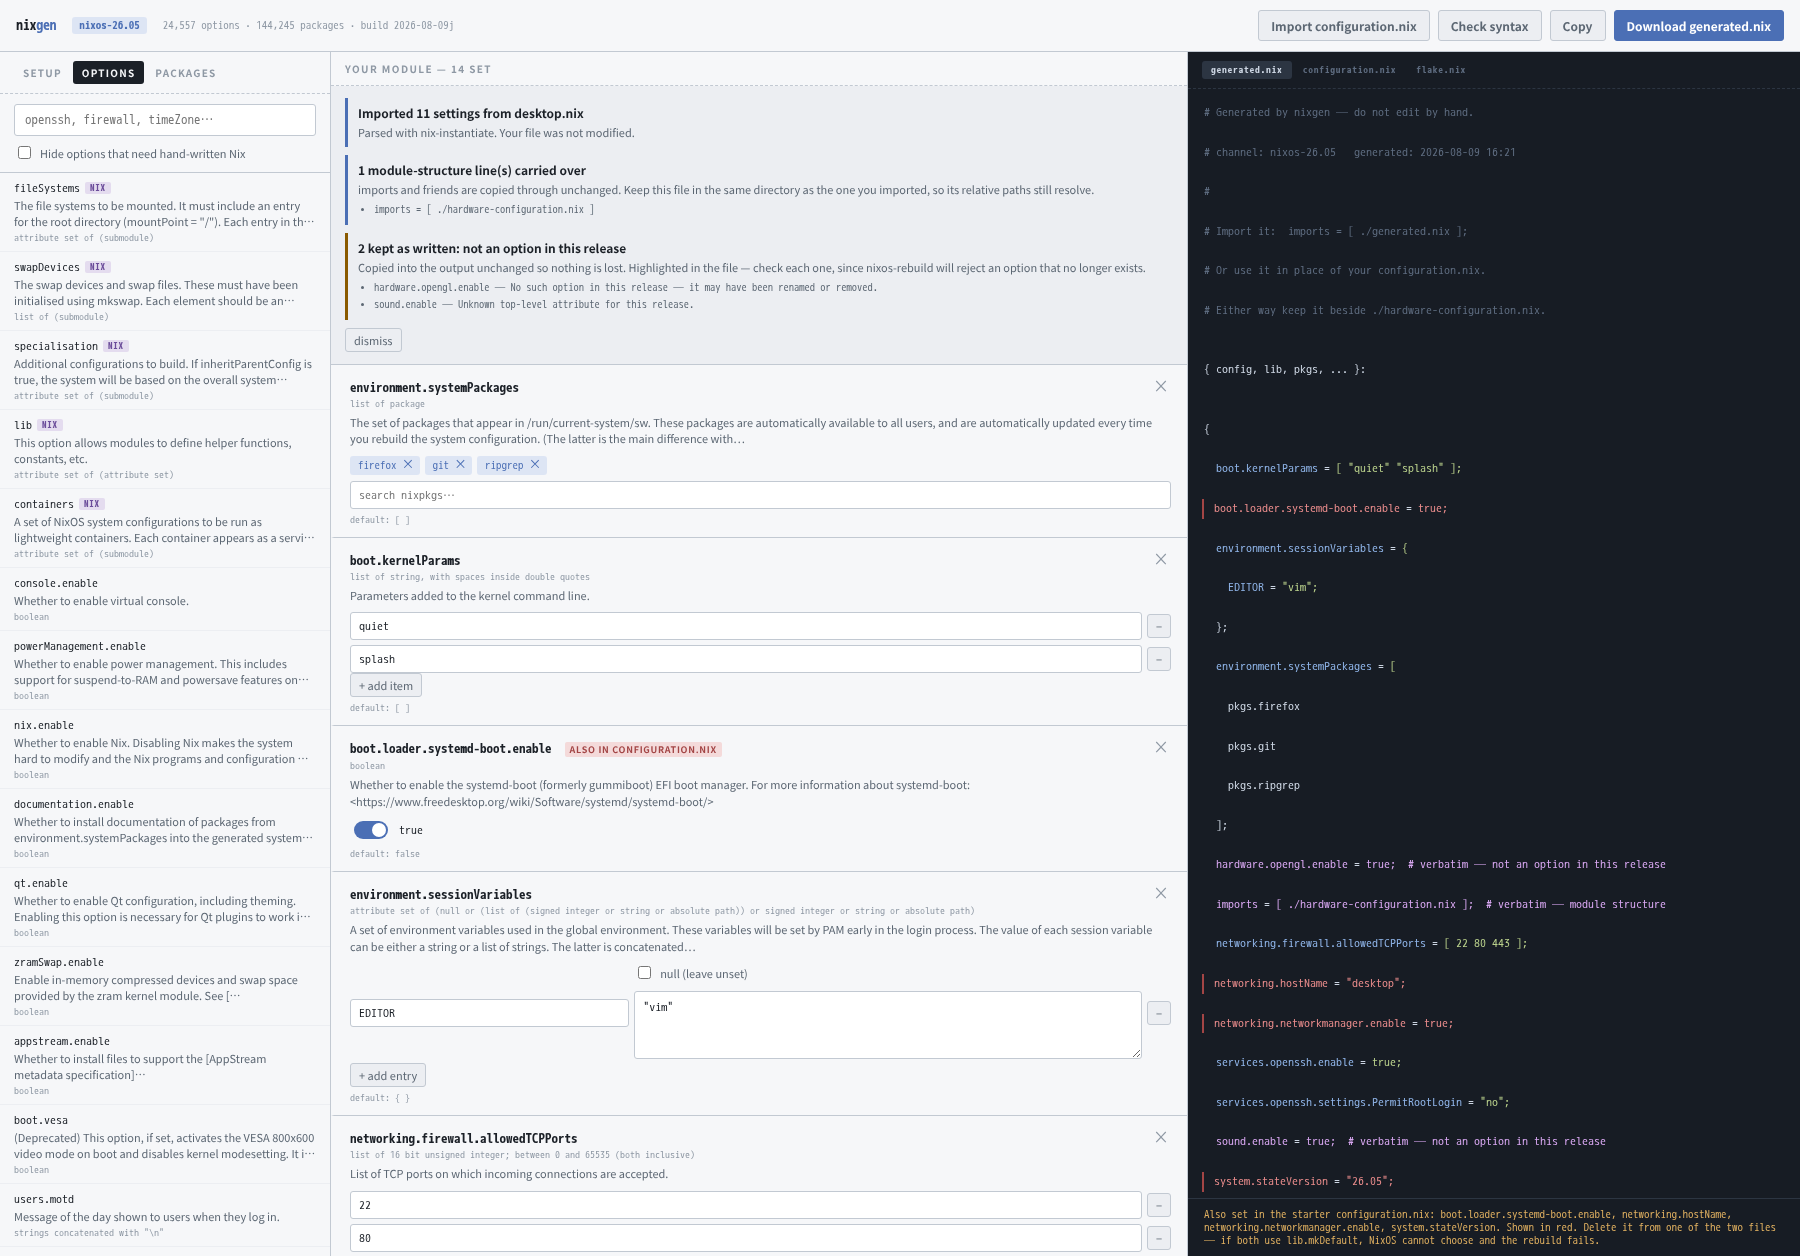
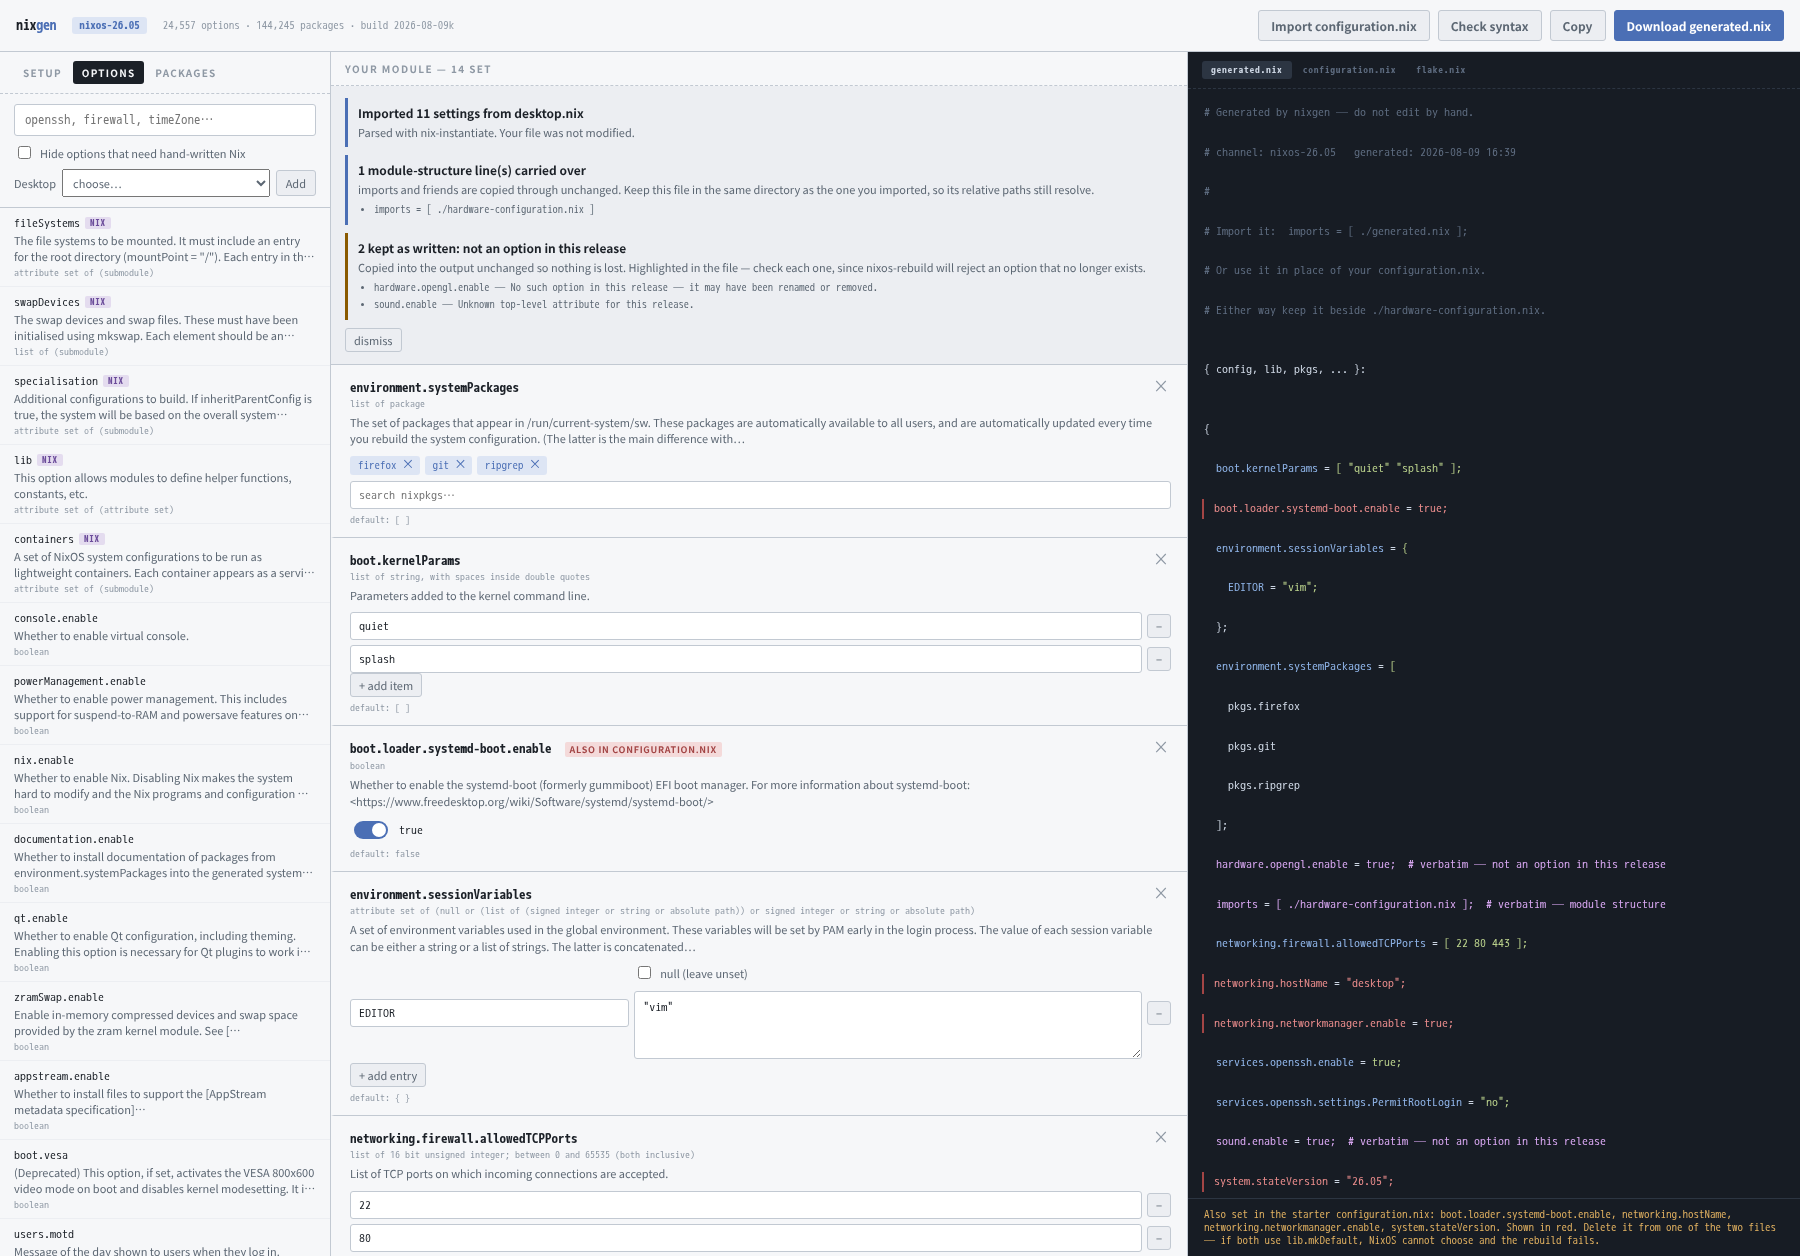
Add a desktop from a dropdown
GNOME, KDE Plasma or Xfce, on the Options tab. Three settings each, the ones
the NixOS manual lists, added as ordinary option cards so they can be read,
changed and removed like anything else.

The names are the reason it earns its place. gdm and sddm have moved out of
services.xserver and lightdm has not; gnome and plasma6 have moved out and
xfce has not; plasma5 is gone. Two namespaces, split by no rule anyone could
infer — which is the exact problem this tool exists for, and the exact way a
hard-coded list would go quietly wrong on the next release. So each part
names candidates and takes the first the catalogue actually has.

Into the module rather than the starter file, deliberately: starter.py has no
catalogue to check a path against, and a preset nobody can see or edit is the
wrong shape here.

Verified past what Check syntax can tell you — it cannot judge whether an
option name is real. All three were driven through the UI, then evaluated as
NixOS systems, then read back to confirm the options are actually true in the
resulting config and that a display manager ends up enabled in each.

Changed region(s): [[0.0, 0.1242, 0.1867, 1.0]]

diff --git a/build/static/app.js b/build/static/app.js
@@ -2,7 +2,7 @@
 
 /* Shown in the header. Bump it whenever this file changes, so "the fix did not
    work" can be told apart from "the old file is still being served". */
-const BUILD = '2026-08-09j';
+const BUILD = '2026-08-09k';
 
 const $  = (s, r = document) => r.querySelector(s);
 const $$ = (s, r = document) => [...r.querySelectorAll(s)];
@@ -156,6 +156,7 @@ function selectKind(kind) {
   if (setup) return;
 
   $('#filterline').style.display = kind === 'options' ? '' : 'none';
+  $('#presetline').style.display = kind === 'options' ? '' : 'none';
   $('#q').placeholder = kind === 'options'
     ? 'openssh, firewall, timeZone…'
     : 'firefox, ripgrep, obsidian…';
@@ -594,6 +595,69 @@ async function addOption(path) {
   state.lastTouched = path;
   renderEditor(); runSearch(); pushRender();
 }
+
+/* A desktop is three settings, and their names have already moved once in a
+   way nobody would guess: gdm and sddm left `services.xserver`, lightdm did
+   not; gnome and plasma6 left it, xfce did not; plasma5 is gone entirely. That
+   is what makes it worth a shortcut — and why each role lists candidates and
+   takes the first the catalogue actually has, instead of a hard-coded path
+   that will move again. Nothing is invented: these are the settings the NixOS
+   manual lists, added as ordinary options you can read and change. */
+const DESKTOPS = {
+  gnome: { label: 'GNOME', roles: [
+    ['services.xserver.enable'],
+    ['services.displayManager.gdm.enable',
+     'services.xserver.displayManager.gdm.enable'],
+    ['services.desktopManager.gnome.enable',
+     'services.xserver.desktopManager.gnome.enable'],
+  ] },
+  plasma: { label: 'KDE Plasma', roles: [
+    ['services.xserver.enable'],
+    ['services.displayManager.sddm.enable',
+     'services.xserver.displayManager.sddm.enable'],
+    ['services.desktopManager.plasma6.enable',
+     'services.desktopManager.plasma5.enable',
+     'services.xserver.desktopManager.plasma5.enable'],
+  ] },
+  xfce: { label: 'Xfce', roles: [
+    ['services.xserver.enable'],
+    ['services.displayManager.lightdm.enable',
+     'services.xserver.displayManager.lightdm.enable'],
+    ['services.desktopManager.xfce.enable',
+     'services.xserver.desktopManager.xfce.enable'],
+  ] },
+};
+
+async function addDesktop(key) {
+  const d = DESKTOPS[key];
+  if (!d) return;
+  const added = [], missing = [];
+  for (const candidates of d.roles) {
+    let found = null;
+    for (const path of candidates) {
+      await addOption(path);          // no-op when the catalogue lacks it
+      if (state.selected.has(path)) { found = path; break; }
+    }
+    if (!found) { missing.push(candidates[0]); continue; }
+    const entry = state.selected.get(found);
+    if (entry.type.kind === 'bool') entry.value = true;
+    added.push(found);
+  }
+  renderEditor();
+  pushRender();
+  if (missing.length) {
+    setStatus(`${d.label}: added ${added.length}, but this release has no ` +
+              `${missing.join(', ')}. Check the result before applying it.`, 'bad');
+  } else {
+    setStatus(`${d.label}: ${added.length} settings added. Change or remove ` +
+              `any of them like the rest.`, 'ok');
+  }
+}
+
+$('#btn-desktop').addEventListener('click', () => {
+  const key = $('#s-desktop').value;
+  if (key) addDesktop(key);
+});
 
 /* Find a selection entry by the path it will actually render to. Import can
    file the same option under a suffixed key, so looking it up by map key is

diff --git a/build/static/index.html b/build/static/index.html
@@ -40,6 +40,20 @@
         <label class="filterline" id="filterline">
           <input type="checkbox" id="only-supported"> Hide options that need hand-written Nix
         </label>
+        <!-- A desktop is three settings whose names nobody remembers, in two
+             different namespaces. Adding them here rather than to the starter
+             file is deliberate: they are ordinary options, so they arrive as
+             cards you can read, edit and remove. -->
+        <div class="presetline" id="presetline">
+          <span>Desktop</span>
+          <select id="s-desktop">
+            <option value="">choose…</option>
+            <option value="gnome">GNOME</option>
+            <option value="plasma">KDE Plasma</option>
+            <option value="xfce">Xfce</option>
+          </select>
+          <button class="mini" id="btn-desktop">Add</button>
+        </div>
       </div>
       <div class="pane-body" id="results"></div>
       <div class="pane-body" id="setup" hidden>

diff --git a/build/static/app.css b/build/static/app.css
@@ -108,6 +108,12 @@ main {
   margin-top: 7px; display: flex; align-items: center; gap: 6px;
   font-size: 11px; color: var(--ink-soft);
 }
+.presetline {
+  margin-top: 7px; display: flex; align-items: center; gap: 6px;
+  font-size: 11px; color: var(--ink-soft);
+}
+.presetline select { flex: 1; min-width: 0; padding: 4px 6px; }
+.presetline .mini { padding: 4px 9px; }
 
 .row {
   display: block; width: 100%; text-align: left;

diff --git a/CHANGELOG.md b/CHANGELOG.md
@@ -9,6 +9,18 @@ option counts.
 
 ## English
 
+### build 2026-08-09k
+
+- **Pick a desktop from a dropdown.** GNOME, KDE Plasma or Xfce, on the
+  **Options** tab. Each adds the three settings the NixOS manual lists for it,
+  as ordinary options you can then read, change or remove — nothing goes into
+  a file you cannot see.
+- The names are worth the shortcut on their own: `gdm` and `sddm` have moved
+  out of `services.xserver`, **`lightdm` has not**; `gnome` and `plasma6` have
+  moved out, **`xfce` has not**; `plasma5` is gone. Nobody is going to guess
+  that, so each part is looked up in the catalogue rather than hard-coded, and
+  whichever name this channel actually has is the one that gets used.
+
 ### build 2026-08-09j
 
 - **The panel now says what to do about losing your work.** Nothing is kept
@@ -218,6 +230,11 @@ three of these six showed up in only one of the two.
 ---
 
 ## 日本語
+
+### build 2026-08-09k
+
+- **デスクトップ環境をプルダウンから選べるようにしました。** **Options** タブで GNOME、KDE Plasma、Xfce のいずれかを選ぶと、NixOSマニュアルが挙げている3項目が追加されます。**追加されるのは通常のオプションと同じカード**なので、中身を読んで、変更も削除もできます。見えないファイルに何かが書き込まれることはありません。
+- 項目名だけでもこの機能の価値があります。`gdm` と `sddm` は `services.xserver` の外に移動しましたが、**`lightdm` は移動していません。** `gnome` と `plasma6` は外に出ましたが、**`xfce` は中に残っています。** `plasma5` は消滅しました。**推測で当てられる並びではありません。** そのため各項目は決め打ちせずカタログを照合し、**そのチャンネルに実在する名前**を使います。
 
 ### build 2026-08-09j
 

diff --git a/README.ja.md b/README.ja.md
@@ -211,6 +211,12 @@ rm -rf ~/.local/share/nixgen
 
 タブは左から **Setup**、**Options**(設定項目)、**Packages**(ソフトウェア)の順です。新しいマシンで使う順番に並べてあります。**起動時に開くのはSetupです。** 設定を探すときは **Options** に切り替えてください。Packagesで選んだものは `environment.systemPackages` に足されます。
 
+### デスクトップ環境を選ぶ
+
+**Options** タブに **Desktop** のプルダウンがあります。GNOME、KDE Plasma、Xfce から選ぶと、NixOSマニュアルが挙げている3項目が追加されます。追加されるのは**通常のオプションと同じ**なので、あとから変更も削除もできます。
+
+この機能がある理由は、項目名そのものです。`gdm` と `sddm` は `services.xserver` の外に移りましたが、**`lightdm` は移っていません。** `gnome` と `plasma6` は外に出ましたが、**`xfce` は中に残っています。** `plasma5` は消えました。nixgenは**いま選んでいるチャンネルのカタログを1つずつ照合**するので、かつての名前ではなく実在する名前が入ります。
+
 *Hide options that need hand-written Nix* にチェックを入れると、**入力欄が用意されている項目だけ**に絞れます。全体の88.3%がこれに当たります。残りは自分でNixの文を書く必要がある項目で、慣れないうちは隠しておくほうが混乱しません。
 
 パッケージ一覧は**アルファベット順**で出力されます。読み込み時も、追加したときも同じです。Nixは順序を気にしませんが、並んでいるほうが読みやすく、1つ足したときの差分も小さくなります。

diff --git a/CLAUDE.md b/CLAUDE.md
@@ -193,6 +193,15 @@ at `nixos-rebuild`, which is the least helpful place for it to surface.
 - **The directory listing in the steps is ASCII, not box drawing.** `--mono`
   falls back to a proportional face for `├─└` on some machines, and a tree
   whose columns do not line up is worse than no tree.
+- **The desktop presets name candidates, not paths.** `DESKTOPS` lists a few
+  possible names per role and takes the first the catalogue has, because these
+  have already moved once and asymmetrically: `gdm` and `sddm` left
+  `services.xserver`, `lightdm` did not; `gnome` and `plasma6` left it, `xfce`
+  did not; `plasma5` is gone. A hard-coded path would have been right for two
+  of the three and silently wrong later for all of them. They add ordinary
+  option cards rather than writing into the starter file — the starter has no
+  catalogue to check against, and a preset nobody can see or edit is the wrong
+  shape for this tool.
 - No browser storage. State lives in `state` in `app.js`.
 
 > 上記はいずれも「見た目は正しいのに後で壊れる」類の落とし穴です。触る前に一読してください。

diff --git a/README.md b/README.md
@@ -249,6 +249,18 @@ first.
 The tabs run **Setup**, **Options** (settings), **Packages** (software) — in the order you would use them on a new machine. Setup is where the app opens; click **Options** to start searching.
 Anything you pick under Packages is added to the list of programs to install.
 
+### Picking a desktop
+
+Under **Options** there is a **Desktop** dropdown: GNOME, KDE Plasma or Xfce.
+Each adds the three settings the NixOS manual lists for it, as ordinary options
+you can then change or remove like any other.
+
+The names are the reason it is there. `gdm` and `sddm` have moved out of
+`services.xserver` and **`lightdm` has not**; `gnome` and `plasma6` have moved
+out and **`xfce` has not**; `plasma5` is gone. nixgen looks each part up in the
+catalogue for the channel you are on, so you get the name that exists rather
+than the one that used to.
+
 Ticking *Hide options that need hand-written Nix* narrows the list to **the
 settings that have a proper input field** — 88.3% of them. The rest need you to
 write a piece of Nix yourself, and hiding them keeps things simpler while you
